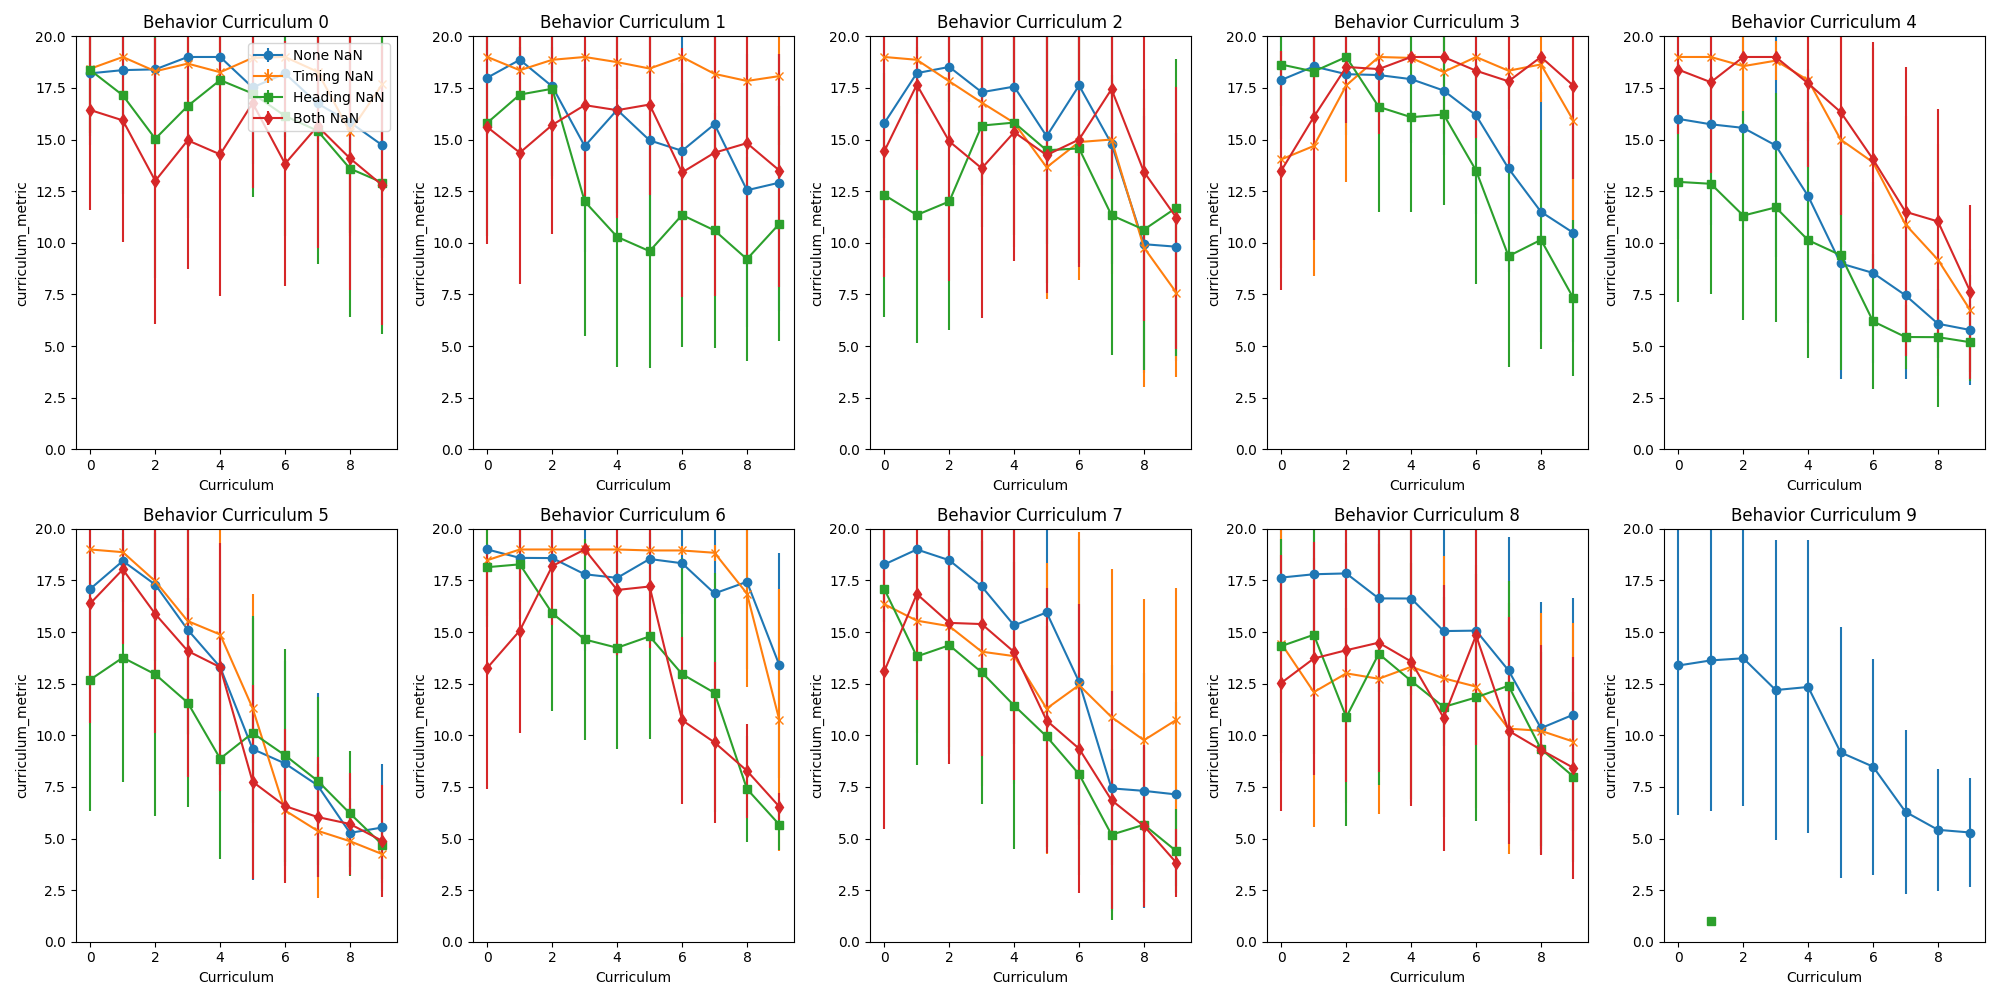
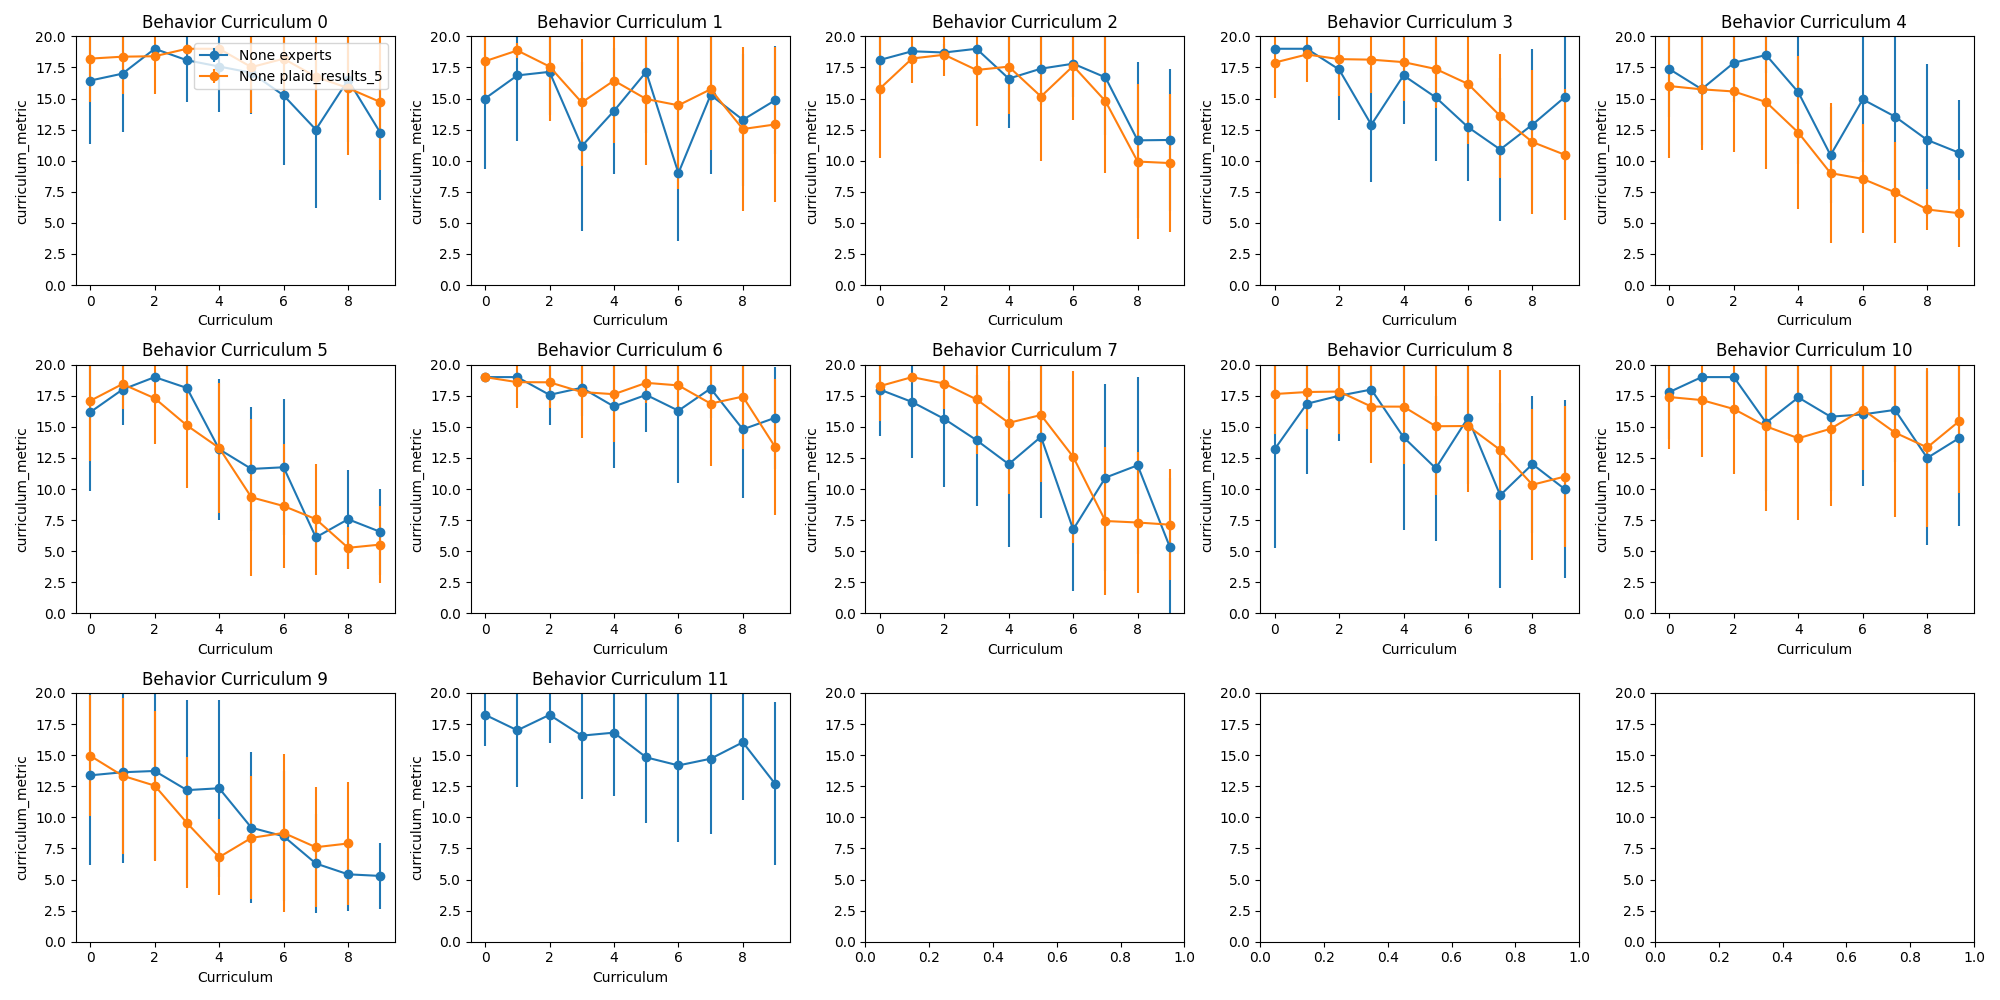
finished comparing

diff --git a/plot_eval_data.py b/plot_eval_data.py
@@ -16,73 +16,82 @@ fig, axes = plt.subplots(nrows=3, ncols=5, figsize=(20, 10))
 all_means = []
 all_stds = []
 
-folder = "experts"
+folders = ["experts", "plaid_results_5", "no_distill_data_all"]
+folder_labels=["experts", "distilled", "final sequential_policy"]
 
 for behavior_curriculum in range(num_behavior_curricula):
-    means_none_nan = []
-    stds_none_nan = []
-    means_timing_nan = []
-    stds_timing_nan = []
-    means_heading_nan = []
-    stds_heading_nan = []
-    means_both_nan = []
-    stds_both_nan = []
-    curricula = list(range(num_curricula))
+    for i, folder in enumerate(folders):
 
-    curriculum_to_plot = []
+        means_none_nan = []
+        stds_none_nan = []
+        means_timing_nan = []
+        stds_timing_nan = []
+        means_heading_nan = []
+        stds_heading_nan = []
+        means_both_nan = []
+        stds_both_nan = []
+        curricula = list(range(num_curricula))
 
-    for curriculum in curricula:
-        file = f"{folder}/data_{behavior_curriculum}_{curriculum}.csv"
-        
-        try:
-            data = pd.read_csv(file)
+        curriculum_to_plot = []
+
+        for curriculum in curricula:
+            file = f"{folder}/data_{behavior_curriculum}_{curriculum}.csv"
             
-            # Separate the data into the four cases
-            data_none_nan = data[data['timing_met'].notna() & data['heading_err'].notna()]
-            data_timing_nan = data[data['timing_met'].isna() & data['heading_err'].notna()]
-            data_heading_nan = data[data['timing_met'].notna() & data['heading_err'].isna()]
-            data_both_nan = data[data['timing_met'].isna() & data['heading_err'].isna()]
+            try:
+                data = pd.read_csv(file)
+                
+                # Separate the data into the four cases
+                data_none_nan = data[data['timing_met'].notna() & data['heading_err'].notna()]
+                data_timing_nan = data[data['timing_met'].isna() & data['heading_err'].notna()]
+                data_heading_nan = data[data['timing_met'].notna() & data['heading_err'].isna()]
+                data_both_nan = data[data['timing_met'].isna() & data['heading_err'].isna()]
 
-            # Calculate mean and std for each subset
-            mean_none_nan = data_none_nan[column_to_plot].mean()
-            std_none_nan = data_none_nan[column_to_plot].std()
-            means_none_nan.append(mean_none_nan)
-            stds_none_nan.append(std_none_nan)
-            all_means.append(mean_none_nan)
-            all_stds.append(std_none_nan)
+                # Calculate mean and std for each subset
+                mean_none_nan = data_none_nan[column_to_plot].mean()
+                std_none_nan = data_none_nan[column_to_plot].std()
+                means_none_nan.append(mean_none_nan)
+                stds_none_nan.append(std_none_nan)
+                all_means.append(mean_none_nan)
+                all_stds.append(std_none_nan)
 
-            mean_timing_nan = data_timing_nan[column_to_plot].mean()
-            std_timing_nan = data_timing_nan[column_to_plot].std()
-            means_timing_nan.append(mean_timing_nan)
-            stds_timing_nan.append(std_timing_nan)
-            all_means.append(mean_timing_nan)
-            all_stds.append(std_timing_nan)
+                mean_timing_nan = data_timing_nan[column_to_plot].mean()
+                std_timing_nan = data_timing_nan[column_to_plot].std()
+                means_timing_nan.append(mean_timing_nan)
+                stds_timing_nan.append(std_timing_nan)
+                all_means.append(mean_timing_nan)
+                all_stds.append(std_timing_nan)
 
-            mean_heading_nan = data_heading_nan[column_to_plot].mean()
-            std_heading_nan = data_heading_nan[column_to_plot].std()
-            means_heading_nan.append(mean_heading_nan)
-            stds_heading_nan.append(std_heading_nan)
-            all_means.append(mean_heading_nan)
-            all_stds.append(std_heading_nan)
+                mean_heading_nan = data_heading_nan[column_to_plot].mean()
+                std_heading_nan = data_heading_nan[column_to_plot].std()
+                means_heading_nan.append(mean_heading_nan)
+                stds_heading_nan.append(std_heading_nan)
+                all_means.append(mean_heading_nan)
+                all_stds.append(std_heading_nan)
 
-            mean_both_nan = data_both_nan[column_to_plot].mean()
-            std_both_nan = data_both_nan[column_to_plot].std()
-            means_both_nan.append(mean_both_nan)
-            stds_both_nan.append(std_both_nan)
-            all_means.append(mean_both_nan)
-            all_stds.append(std_both_nan)
+                mean_both_nan = data_both_nan[column_to_plot].mean()
+                std_both_nan = data_both_nan[column_to_plot].std()
+                means_both_nan.append(mean_both_nan)
+                stds_both_nan.append(std_both_nan)
+                all_means.append(mean_both_nan)
+                all_stds.append(std_both_nan)
 
-            curriculum_to_plot.append(curriculum)
-        except FileNotFoundError:
-            print(f"File {file} not found. Skipping.")
-            continue
+                curriculum_to_plot.append(curriculum)
+            except FileNotFoundError:
+                print(f"File {file} not found. Skipping.")
+                continue
 
-    # Plot each subset on the same subplot for the current behavior curriculum
-    ax = axes.flatten()[behavior_curriculum]
-    ax.errorbar(curriculum_to_plot, means_none_nan, yerr=stds_none_nan, fmt='-o', label='None NaN')
-    ax.errorbar(curriculum_to_plot, means_timing_nan, yerr=stds_timing_nan, fmt='-x', label='Timing NaN')
-    ax.errorbar(curriculum_to_plot, means_heading_nan, yerr=stds_heading_nan, fmt='-s', label='Heading NaN')
-    ax.errorbar(curriculum_to_plot, means_both_nan, yerr=stds_both_nan, fmt='-d', label='Both NaN')
+        # Plot each subset on the same subplot for the current behavior curriculum
+        if folder != "experts" and behavior_curriculum in {9, 10}:
+            if behavior_curriculum == 9:
+                ax = axes.flatten()[10]
+            else:
+                ax = axes.flatten()[9]
+        else:
+            ax = axes.flatten()[behavior_curriculum]
+        # ax.errorbar(curriculum_to_plot, means_none_nan, yerr=stds_none_nan, fmt='-o', label=f'None {folder_labels[i]}')
+        ax.errorbar(curriculum_to_plot, means_timing_nan, yerr=stds_timing_nan, fmt='-x', label=f'Timing Masked {folder_labels[i]}')
+        # ax.errorbar(curriculum_to_plot, means_heading_nan, yerr=stds_heading_nan, fmt='-s', label='Heading Masked')
+        # ax.errorbar(curriculum_to_plot, means_both_nan, yerr=stds_both_nan, fmt='-d', label='Both Masked')
 
     ax.set_title(f"Behavior Curriculum {behavior_curriculum}")
     ax.set_xlabel("Curriculum")
@@ -105,6 +114,6 @@ axes[0, 0].legend(loc='upper right')
 plt.tight_layout()
 plt.suptitle(f"{column_to_plot} across Curricula for Each Behavior Curriculum", y=1.02)
 import os
-img_path = f"{folder}/results.png"
+img_path = f"expert_vs_student_random/results_timing.png"
 plt.savefig(img_path)
 plt.show()
